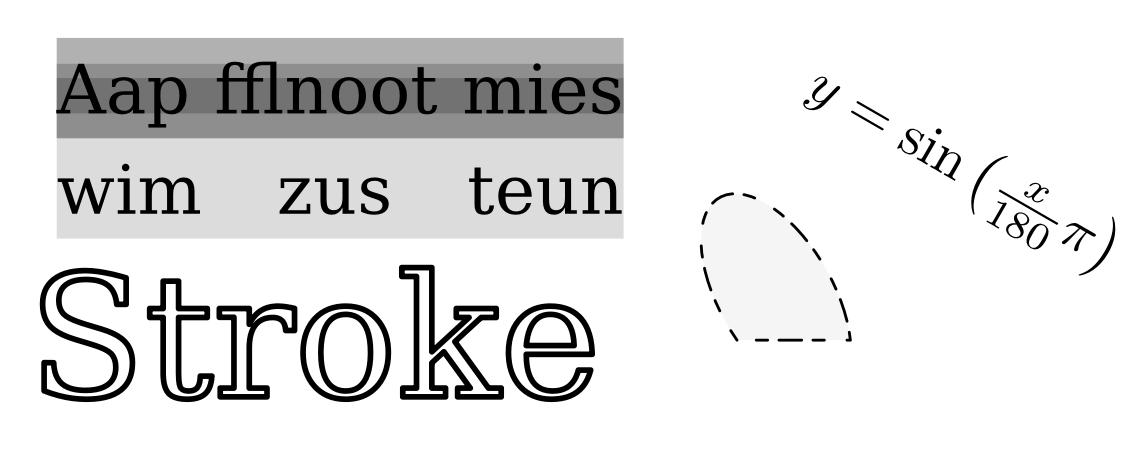
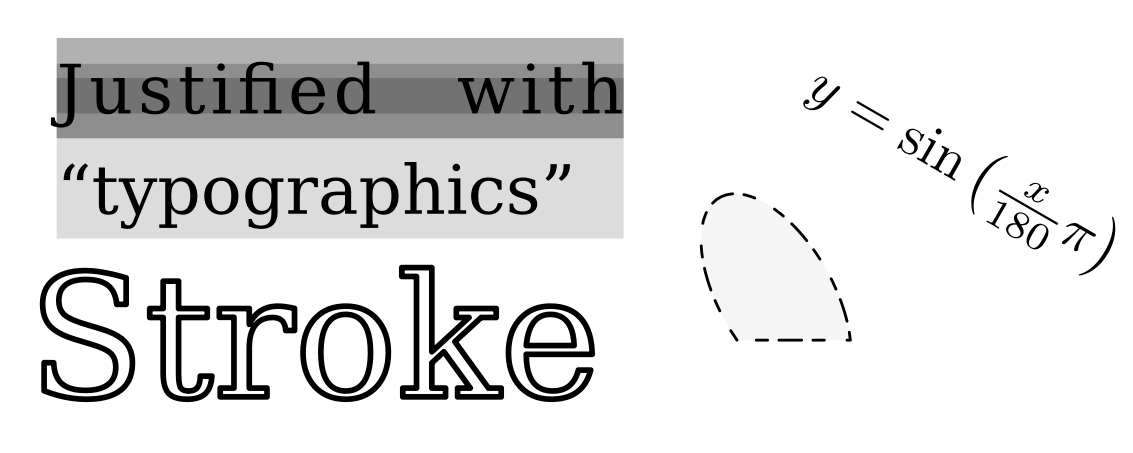
Add font ligatures and typographic elements

Changed region(s): [[0.0309, 0.34, 0.556, 0.5254], [0.0309, 0.1236, 0.556, 0.2781]]

diff --git a/font.go b/font.go
@@ -5,6 +5,8 @@ import (
 	"io/ioutil"
 	"math"
 	"strings"
+	"unicode"
+	"unicode/utf8"
 
 	findfont "github.com/flopp/go-findfont"
 	"golang.org/x/image/font"
@@ -13,6 +15,25 @@ import (
 )
 
 var sfntBuffer sfnt.Buffer
+
+type TransformationOptions int
+
+const (
+	NoTypography TransformationOptions = 2 << iota
+	NoRequiredLigatures
+	CommonLigatures
+	DiscretionaryLigatures
+	HistoricalLigatures
+)
+
+// TODO: read from liga tables in OpenType (clig, dlig, hlig) with rlig default enabled
+var commonLigatures = [][2]string{
+	{"ffi", "\uFB03"},
+	{"ffl", "\uFB04"},
+	{"ff", "\uFB00"},
+	{"fi", "\uFB01"},
+	{"fl", "\uFB02"},
+}
 
 type FontStyle int
 
@@ -29,6 +50,12 @@ type Font struct {
 	sfnt  *sfnt.Font
 	name  string
 	style FontStyle
+
+	transformationOptions  TransformationOptions
+	requiredLigatures      [][2]string
+	commonLigatures        [][2]string
+	discretionaryLigatures [][2]string
+	historicalLigatures    [][2]string
 }
 
 // LoadLocalFont loads a font from the system fonts location.
@@ -55,13 +82,34 @@ func LoadFont(name string, style FontStyle, b []byte) (Font, error) {
 	if err != nil {
 		return Font{}, err
 	}
+
+	// TODO: extract from liga tables
+	clig := [][2]string{}
+	for _, transformation := range commonLigatures {
+		var err error
+		for _, r := range []rune(transformation[1]) {
+			_, err = sfnt.GlyphIndex(&sfntBuffer, r)
+			if err != nil {
+				continue
+			}
+		}
+		if err == nil {
+			clig = append(clig, transformation)
+		}
+	}
+
 	return Font{
-		mimetype: mimetype,
-		raw:      b,
-		sfnt:     sfnt,
-		name:     name,
-		style:    style,
+		mimetype:        mimetype,
+		raw:             b,
+		sfnt:            sfnt,
+		name:            name,
+		style:           style,
+		commonLigatures: clig,
 	}, nil
+}
+
+func (f *Font) Use(transformationOptions TransformationOptions) {
+	f.transformationOptions = transformationOptions
 }
 
 // Face gets the font face associated with the give font name and font size (in mm).
@@ -208,4 +256,189 @@ func (ff FontFace) Kerning(rPrev, rNext rune) float64 {
 		return fromI26_6(kern)
 	}
 	return 0.0
+}
+
+func isspace(r rune) bool {
+	return unicode.IsSpace(r)
+}
+
+func ispunct(r rune) bool {
+	for _, punct := range "!\"#$%&'()*+,-./:;<=>?@[\\]^_`{|}~" {
+		if r == punct {
+			return true
+		}
+	}
+	return false
+}
+
+func isWordBoundary(r rune) bool {
+	return r == 0 || isspace(r) || ispunct(r)
+}
+
+func stringReplace(s string, i, n int, target string) (string, int) {
+	s = s[:i] + target + s[i+n:]
+	return s, len(target)
+}
+
+// from https://github.com/russross/blackfriday/blob/11635eb403ff09dbc3a6b5a007ab5ab09151c229/smartypants.go#L42
+func quoteReplace(s string, i int, prev, quote, next rune, isOpen *bool) (string, int) {
+	switch {
+	case prev == 0 && next == 0:
+		// context is not any help here, so toggle
+		*isOpen = !*isOpen
+	case isspace(prev) && next == 0:
+		// [ "] might be [ "<code>foo...]
+		*isOpen = true
+	case ispunct(prev) && next == 0:
+		// [!"] hmm... could be [Run!"] or [("<code>...]
+		*isOpen = false
+	case /* isnormal(prev) && */ next == 0:
+		// [a"] is probably a close
+		*isOpen = false
+	case prev == 0 && isspace(next):
+		// [" ] might be [...foo</code>" ]
+		*isOpen = false
+	case isspace(prev) && isspace(next):
+		// [ " ] context is not any help here, so toggle
+		*isOpen = !*isOpen
+	case ispunct(prev) && isspace(next):
+		// [!" ] is probably a close
+		*isOpen = false
+	case /* isnormal(prev) && */ isspace(next):
+		// [a" ] this is one of the easy cases
+		*isOpen = false
+	case prev == 0 && ispunct(next):
+		// ["!] hmm... could be ["$1.95] or [</code>"!...]
+		*isOpen = false
+	case isspace(prev) && ispunct(next):
+		// [ "!] looks more like [ "$1.95]
+		*isOpen = true
+	case ispunct(prev) && ispunct(next):
+		// [!"!] context is not any help here, so toggle
+		*isOpen = !*isOpen
+	case /* isnormal(prev) && */ ispunct(next):
+		// [a"!] is probably a close
+		*isOpen = false
+	case prev == 0 /* && isnormal(next) */ :
+		// ["a] is probably an open
+		*isOpen = true
+	case isspace(prev) /* && isnormal(next) */ :
+		// [ "a] this is one of the easy cases
+		*isOpen = true
+	case ispunct(prev) /* && isnormal(next) */ :
+		// [!"a] is probably an open
+		*isOpen = true
+	default:
+		// [a'b] maybe a contraction?
+		*isOpen = false
+	}
+
+	if quote == '"' {
+		if *isOpen {
+			return stringReplace(s, i, 1, "\u201C")
+		} else {
+			return stringReplace(s, i, 1, "\u201D")
+		}
+	} else if quote == '\'' {
+		if *isOpen {
+			return stringReplace(s, i, 1, "\u2018")
+		} else {
+			return stringReplace(s, i, 1, "\u2019")
+		}
+	}
+	return s, 1
+}
+
+func (f *Font) transform(s string) string {
+	if f.transformationOptions&NoRequiredLigatures == 0 {
+		for _, transformation := range f.requiredLigatures {
+			s = strings.ReplaceAll(s, transformation[0], transformation[1])
+		}
+	}
+	if f.transformationOptions&CommonLigatures != 0 {
+		for _, transformation := range f.commonLigatures {
+			s = strings.ReplaceAll(s, transformation[0], transformation[1])
+		}
+	}
+	if f.transformationOptions&DiscretionaryLigatures != 0 {
+		for _, transformation := range f.discretionaryLigatures {
+			s = strings.ReplaceAll(s, transformation[0], transformation[1])
+		}
+	}
+	if f.transformationOptions&HistoricalLigatures != 0 {
+		for _, transformation := range f.historicalLigatures {
+			s = strings.ReplaceAll(s, transformation[0], transformation[1])
+		}
+	}
+	// TODO: make sure unicode points exist in font
+	if f.transformationOptions&NoTypography == 0 {
+		var inSingleQuote, inDoubleQuote bool
+		var rPrev, r rune
+		var i, size int
+		for {
+			rPrev = r
+			i += size
+			if i >= len(s) {
+				break
+			}
+
+			r, size = utf8.DecodeRuneInString(s[i:])
+			if i+2 < len(s) && s[i] == '.' && s[i+1] == '.' && s[i+2] == '.' {
+				s, size = stringReplace(s, i, 3, "\u2026") // ellipsis
+				continue
+			} else if i+4 < len(s) && s[i] == '.' && s[i+1] == ' ' && s[i+2] == '.' && s[i+3] == ' ' && s[i+4] == '.' {
+				s, size = stringReplace(s, i, 5, "\u2026") // ellipsis
+				continue
+			} else if i+2 < len(s) && s[i] == '-' && s[i+1] == '-' && s[i+2] == '-' {
+				s, size = stringReplace(s, i, 3, "\u2014") // em-dash
+				continue
+			} else if i+1 < len(s) && s[i] == '-' && s[i+1] == '-' {
+				s, size = stringReplace(s, i, 2, "\u2013") // en-dash
+				continue
+			} else if i+2 < len(s) && s[i] == '(' && s[i+1] == 'c' && s[i+2] == ')' {
+				s, size = stringReplace(s, i, 3, "\u00A9") // copyright
+				continue
+			} else if i+2 < len(s) && s[i] == '(' && s[i+1] == 'r' && s[i+2] == ')' {
+				s, size = stringReplace(s, i, 3, "\u00AE") // registered
+				continue
+			} else if i+3 < len(s) && s[i] == '(' && s[i+1] == 't' && s[i+2] == 'm' && s[i+3] == ')' {
+				s, size = stringReplace(s, i, 4, "\u2122") // trademark
+				continue
+			}
+
+			var rNext rune
+			// quotes
+			if i+1 < len(s) {
+				rNext, _ = utf8.DecodeRuneInString(s[i+1:])
+			}
+			if s[i] == '"' {
+				s, size = quoteReplace(s, i, rPrev, r, rNext, &inDoubleQuote)
+				continue
+			} else if s[i] == '\'' {
+				s, size = quoteReplace(s, i, rPrev, r, rNext, &inSingleQuote)
+				continue
+			}
+
+			// fractions
+			if i+3 < len(s) {
+				rNext, _ = utf8.DecodeRuneInString(s[i+3:])
+			}
+			if i+2 < len(s) && s[i+1] == '/' && isWordBoundary(rPrev) && rPrev != '/' && isWordBoundary(rNext) && rNext != '/' {
+				if s[i] == '1' && s[i+2] == '2' {
+					s, size = stringReplace(s, i, 3, "\u00BD") // 1/2
+					continue
+				} else if s[i] == '1' && s[i+2] == '4' {
+					s, size = stringReplace(s, i, 3, "\u00BC") // 1/4
+					continue
+				} else if s[i] == '3' && s[i+2] == '4' {
+					s, size = stringReplace(s, i, 3, "\u00BE") // 3/4
+					continue
+				} else if s[i] == '+' && s[i+2] == '-' {
+					s, size = stringReplace(s, i, 3, "\u00B1") // +/-
+					continue
+				}
+			}
+		}
+	}
+	return s
 }

diff --git a/text.go b/text.go
@@ -48,6 +48,7 @@ func calcTextHeight(ff FontFace, lines int) float64 {
 }
 
 func NewText(ff FontFace, s string) *Text {
+	s = ff.f.transform(s)
 	ss := splitNewlines(s)
 	lines := [][]textSpan{}
 	for _, s := range ss {
@@ -64,6 +65,7 @@ func NewText(ff FontFace, s string) *Text {
 
 func NewTextBox(ff FontFace, s string, width, height float64, halign, valign TextAlign, indent float64) *Text {
 	// TODO: do inner-word boundaries
+	s = ff.f.transform(s)
 	lines := [][]textSpan{}
 	var iPrev, iSpace int
 	for i := 0; i < len(s); {
@@ -96,8 +98,10 @@ func NewTextBox(ff FontFace, s string, width, height float64, halign, valign Tex
 				continue
 			}
 			iPrev = iBreak
-			if isNewline || iPrev == iSpace {
-				iPrev += size // skip space or newline
+			if isNewline {
+				iPrev += size // skip newline
+			} else if iPrev == iSpace {
+				iPrev += 1 // skip space
 			}
 		}
 		i += size

diff --git a/example/example.go b/example/example.go
@@ -17,6 +17,7 @@ func main() {
 	if err != nil {
 		panic(err)
 	}
+	dejaVuSerif.Use(canvas.CommonLigatures)
 
 	c := canvas.New(200, 80)
 	Draw(c)
@@ -86,7 +87,7 @@ func drawText(c *canvas.C, x, y float64, size float64, s string) {
 }
 
 func Draw(c *canvas.C) {
-	drawText(c, 10, 60, 12.0, "Aap noot mies wim zus teun vuur")
+	drawText(c, 10, 60, 12.0, "Justified with \"typographics\"")
 
 	face := dejaVuSerif.Face(30)
 	p := canvas.NewText(face, "Stroke").ToPath(0.0, 0.0)

diff --git a/README.md b/README.md
@@ -35,7 +35,7 @@ General
 Fonts
 
 * **Font embedding for PDFs and EPSs**
-* Support ligatures and font hinting
+* Support font hinting
 * Support WOFF2 font format
 * Support Type1 font format?
 * Compressing fonts and embedding only used characters
@@ -49,12 +49,11 @@ Paths
 * Introduce elliptic arc function for PDFs much like for PostScript?
 * Add ArcTo in endpoint format (take begin/end angle and center point)
 * Add function to convert lines to cubic Beziérs to smooth out a path
-* Add offsetting of path (expand / contract), tricky with overlap
 
 Optimization
 
+* Avoid overlapping paths when offsetting in corners
 * Approximate Beziérs by elliptic arcs instead of lines when stroking, if number of path elements is reduced by more than 2 times (check)
-* Avoid overlapping paths when stroking, we need to know the ending and starting angle of the previous and next command respectively
 
 
 ## Canvas
